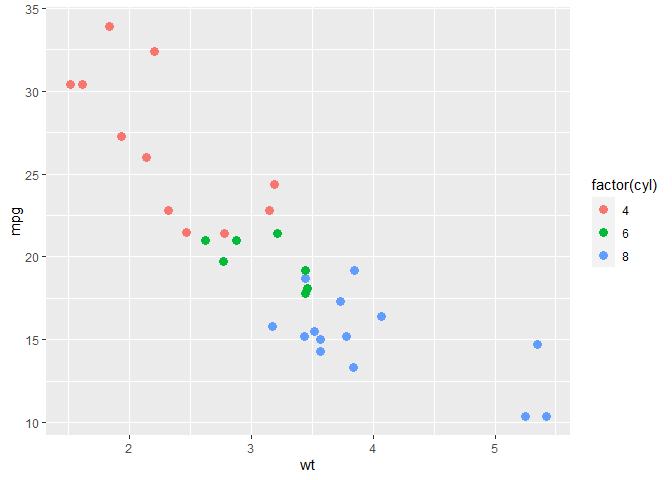
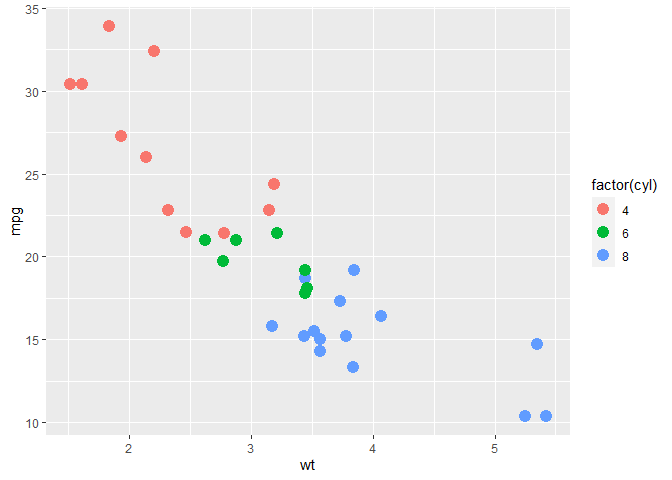
f1

diff --git a/README.md b/README.md
@@ -71,7 +71,7 @@ p + geom_point(aes(x=displ,y=hwy, color=(displ <= 4) ), size=3)
 ![](README_files/figure-gfm/unnamed-chunk-3-1.png)<!-- -->
 
 ``` r
-p + geom_point(aes(colour = factor(cyl)), size=3)
+p + geom_point(aes(colour = factor(cyl)), size=4)
 ```
 
 ![](README_files/figure-gfm/unnamed-chunk-4-1.png)<!-- -->
@@ -81,9 +81,3 @@ p + geom_point(aes(shape = factor(cyl)), size=3)
 ```
 
 ![](README_files/figure-gfm/unnamed-chunk-5-1.png)<!-- -->
-
-``` r
-p + geom_point(aes(colour = factor(cyl)), size = 4) 
-```
-
-![](README_files/figure-gfm/unnamed-chunk-6-1.png)<!-- -->
